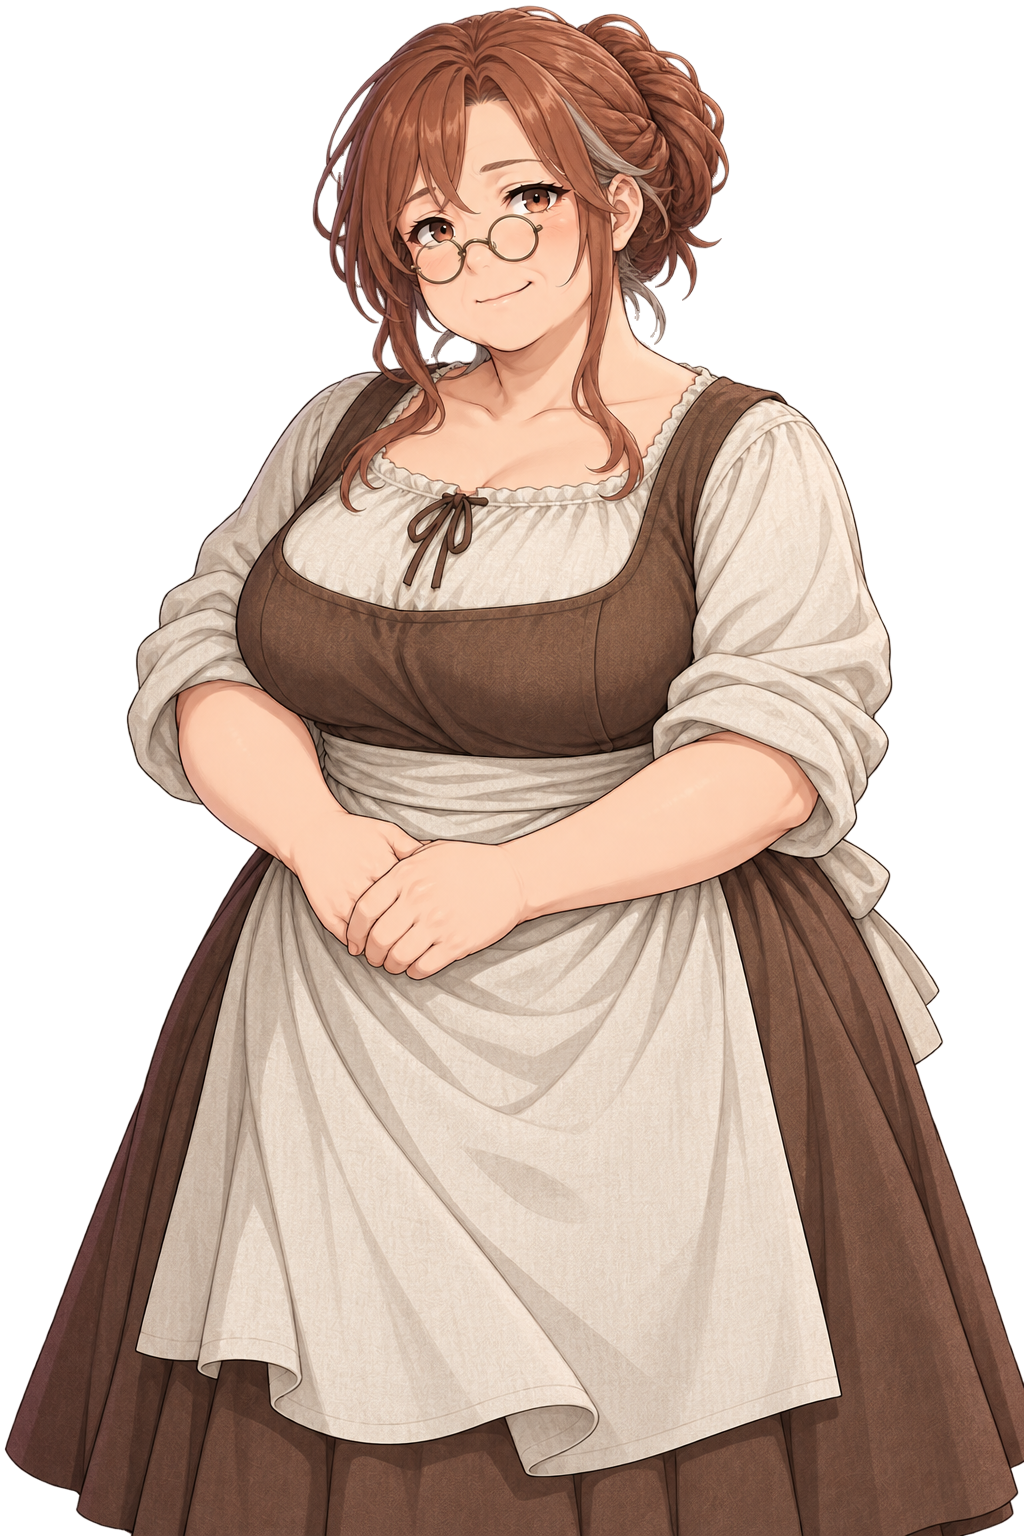
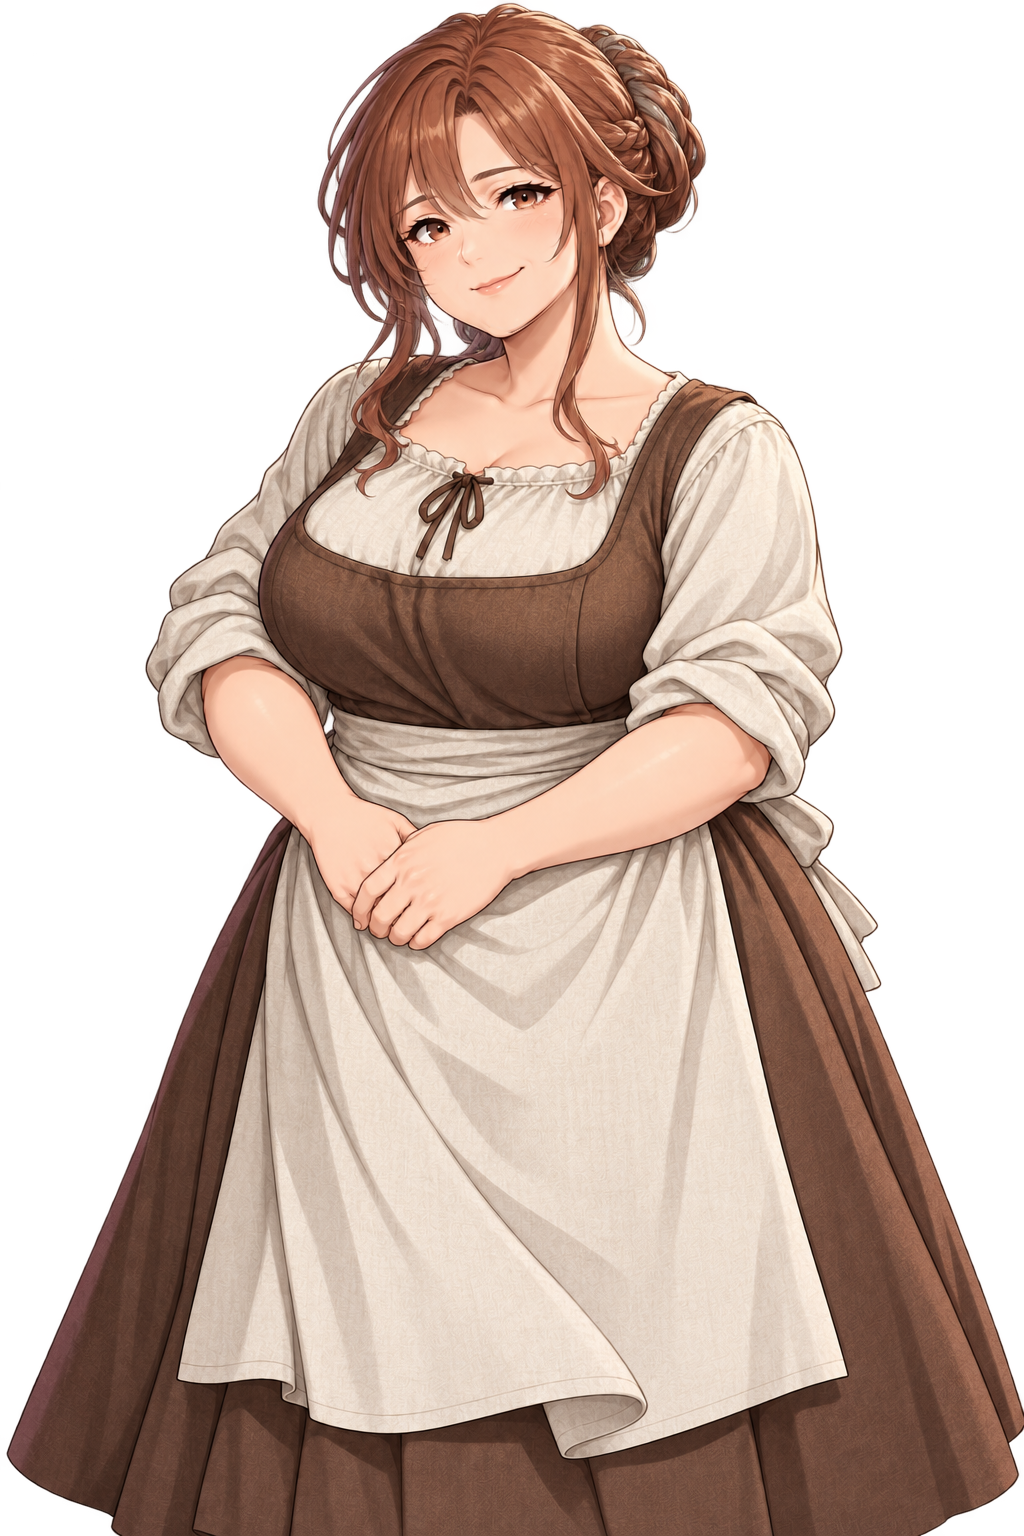
Art: S17 redo 3 - distinctive NPC designs (face shapes, features, job props) clearly unlike companions

diff --git a/art/AGENTS.md b/art/AGENTS.md
@@ -80,7 +80,7 @@
 | 2026-10-16 · 전투 방식 변경 | **전투는 사이드뷰 대치(포 더 킹식)다.** 동료는 화면 왼쪽에서 오른쪽을 보고(3/4 오른쪽, 지금 SD 규격 그대로), 적은 오른쪽에서 왼쪽을 본다(enemy_sd). 칸 이동 맵은 쓰지 않으니 위에서 내려다보는 전투 배경은 더 만들지 않는다. 스킬 아이콘은 Claude 담당 |
 | 2026-10-16 · S15 | **잡몹(E로 시작하는 적)은 투박하고 못생기게, 수수하게 그린다.** 채도 낮게, 장식·패치·벨트 최소, 명암 단순, 얼굴은 험상궂거나 우스꽝스럽게(미남·미녀 금지). 실루엣과 무기만 또렷하게. 잡몹은 대기(idle) 1장만 만들고 공격·피격은 게임 연출로 한다. 보스(B)는 화려하게 그려도 된다. 잘생긴 빌런은 사용자가 따로 말할 때만. **추가(같은 날): 더 투박하게, 보스도 똑같이 못생기고 투박하게** (주먹코, 작은 눈, 삐뚤어진 이, 땅딸막한 체형, 때 묻은 옷, 거친 칠) |
 | 2026-10-16 · S16 | **전투 무대 소품(항아리, 통, 고목, 바리케이드, 탁자, 샹들리에, 덤불)은 Codex가 `prop` 형식으로 그린다.** Claude가 코드 도형으로 그린 소품이 배경과 너무 안 어울렸다. 배경과 같은 화풍·색·빛으로, 소품 하나만 마젠타 배경에 그려 투명 512×512로 만든다(SD 후처리와 같다). 부서진 모습은 게임이 연출하니 멀쩡한 모습 1장만. 전투 배경(bg_battle)에는 여전히 상호작용 소품을 그리지 않는다. **도적·잡몹의 장소에는 깃발·문장·십자가 같은 기사단·교회 표시를 넣지 않는다** (십자가는 교회 세력으로 읽힌다). **같은 지형의 전투 배경끼리는 밝기·답답함·구도로 확실히 다르게** (매복이 공터와 똑같이 나왔다). **참조 그림은 구도까지 따라간다**: 같은 건물의 다른 방은 대회관 그림을 참조로 붙이지 말고 재질만 글로 적는다(기록실이 대회관 구도로 나왔다). 지도는 `flat 2D parchment, NOT a 3D render` 를 꼭 쓴다 |
-| 2026-10-16 · S17 | **NPC는 설정 나이를 얼굴에 드러낸다.** 40대 마르타가 20대로, 30대 깐깐한 바실이 꽃미남 청년으로 나왔다. 화풍이 젊게 끌고 가므로 중년 이상은 주름·흰머리·얼굴형·체형을 프롬프트에 구체적으로 적고 `NOT a young girl / NOT a handsome young man` 을 붙인다. **마을·우호 NPC는 나이가 들어 보여도 어느 정도 미형으로 그린다** (2026-10-16 사용자 지시: 단정하고 호감 가는 얼굴, 중년의 멋). 못생기고 투박하게는 적(E·B)만 |
+| 2026-10-16 · S17 | **NPC는 설정 나이를 얼굴에 드러낸다.** 40대 마르타가 20대로, 30대 깐깐한 바실이 꽃미남 청년으로 나왔다. 화풍이 젊게 끌고 가므로 중년 이상은 주름·흰머리·얼굴형·체형을 프롬프트에 구체적으로 적고 `NOT a young girl / NOT a handsome young man` 을 붙인다. **마을·우호 NPC는 나이가 들어 보여도 어느 정도 미형으로 그린다** (2026-10-16 사용자 지시: 단정하고 호감 가는 얼굴, 중년의 멋). 못생기고 투박하게는 적(E·B)만. **NPC는 동료와 확실히 다른 개성으로**: 동료의 표준 미소녀·미소년 얼굴을 쓰지 않고 얼굴형(넓은·긴 얼굴), 알아볼 특징(주근깨, 점, 매부리코, 수염), 직업 소품과 자세를 넣는다 (개성 없다는 지적, 2026-10-16). 동료 그림은 크기·구도 참조로만 쓰고 얼굴을 따라 하지 않는다 |
 
 ## 저장소 관리
 

diff --git a/art/characters.md b/art/characters.md
@@ -144,13 +144,13 @@ S09 일상복 시트에 설정에 없는 지팡이가 들어가고(Codex가 "정
 
 | ID | 이름 | 역할 | PROMPT |
 |---|---|---|---|
-| N01 | 마르타 (Martha) | 선술집 주인, 길드의 오랜 이웃 | `Martha, a plump cheerful tavern keeper in her mid 40s, clearly middle-aged but still pretty (soft round face, gentle smile lines and crow's feet, a few grey strands), rolled-up sleeves, apron, auburn hair in a bun` |
-| N02 | 공증인 바실 (Basil) | 길드 재건 서류를 관리하는 공증인 | `Basil, a thin fussy notary in his late 30s, lean refined face with sharp cheekbones, neat slicked-back hair with a slightly high forehead, a fussy frown line, narrow shoulders, still good-looking in a mature way, black scholar's robe, quill behind ear, spectacles, ledger under arm` |
+| N01 | 마르타 (Martha) | 선술집 주인, 길드의 오랜 이웃 | `Martha, a boisterous big-hearted tavern keeper in her early 40s, broad sturdy plump build, strong forearms with rolled sleeves, hands on hips with a wooden ladle, faded green kerchief over an auburn bun with grey streaks, freckles across a wide nose, ruddy cheeks, beauty mark by the mouth, brass hoop earrings, stained apron` |
+| N02 | 공증인 바실 (Basil) | 길드 재건 서류를 관리하는 공증인 | `Basil, a tall lanky fastidious notary in his late 30s, long narrow face, aquiline nose, thin mustache and small pointed goatee, small round spectacles low on the nose, slicked-back hair with a widow's peak, ink-stained fingers, quill behind ear, black scholar's robe, brass key ring and wax seal stamp on the belt, ledger clutched to his chest` |
 | N03 | 영주 오스왈드 (Oswald) | 지역 영주, 속을 알 수 없다 | `Lord Oswald, a stately nobleman in his 50s, fur-lined mantle, gold chain of office, neatly trimmed beard` |
 | N04 | 주교 엘리노어 (Eleanor) | 수도원과 교회의 권력자 | `Bishop Eleanor, an elderly stern woman, white and gold vestments, mitre, crozier` |
 | N06 | 가면의 남자 | 흑막 | `a mysterious masked figure, plain white porcelain mask, black hooded cloak, faceless and unsettling` |
-| N07 | 마을 사람 (남) | 범용 의뢰인 | `a medieval peasant man, linen tunic, straw hat` |
-| N08 | 마을 사람 (여) | 범용 의뢰인 | `a medieval peasant woman, wool dress, headscarf` |
+| N07 | 마을 사람 (남) | 범용 의뢰인 | `a sturdy weathered farmer in his 40s, short scruffy beard, crooked nose, frayed straw hat, patched linen tunic, pitchfork` |
+| N08 | 마을 사람 (여) | 범용 의뢰인 | `a village woman in her early 30s, round freckled face, thick dark braid, faded blue headscarf, wool dress and worn apron, basket of eggs` |
 
 ---
 

diff --git a/art/steps/S17.md b/art/steps/S17.md
@@ -58,3 +58,8 @@
 - 기본(neutral)을 새로 그리고, positive/negative 는 새 기본에서 얼굴 마스크만 편집. 옷·소품·구도는 이전본(art/raw/*_rejected_v1.png)을 따른다.
 2026-10-16 · 추가 지시: 마을·우호 NPC는 나이 들어 보여도 어느 정도 미형으로. 바실은 '못생기게'가 아니라 '깐깐해 보이는 단정한 30대 후반 미남', 마르타는 '예쁜 40대'.
 2026-10-16 · 재작업2 (6장): 재작업1은 미형 규칙 전에 시작해 바실이 50대처럼 늙고 깡마르게, 마르타는 설정에 없는 **안경**이 생겼다(바실의 안경이 섞임). 마르타: 예쁜 40대 초반, 안경 없음. 바실: 단정한 30대 후반 미남, 작은 둥근 안경. 옷·소품·구도는 첫 시안(art/raw/*_rejected_v1.png) 그대로.
+2026-10-16 · 재작업3 (8장 전부): "개성이 없다. 못생긴 건 아닌데 개성 있게, 확실히 동료 캐릭들과는 다르게" (사용자). 이전 시안의 자세·구도를 따르지 않고 **새 디자인**으로:
+- 얼굴형부터 다르게: 동료의 표준 미소녀·미소년 얼굴 금지. 넓은 얼굴, 긴 얼굴, 주근깨, 점, 매부리코, 수염 같은 **알아볼 수 있는 특징**을 1~2개 넣는다
+- 직업이 보이는 **소품과 자세**: 마르타는 허리에 손 얹고 국자, 두건. 바실은 장부를 끌어안고 열쇠 꾸러미·인장. 농부는 쇠스랑. 마을 여인은 달걀 바구니
+- 미형은 유지 (우호 NPC 규칙). 개성 있는 매력
+- 원래 참조로 쓰던 리나 스탠딩은 크기·구도 참조로만, 얼굴은 따라 하지 않는다
